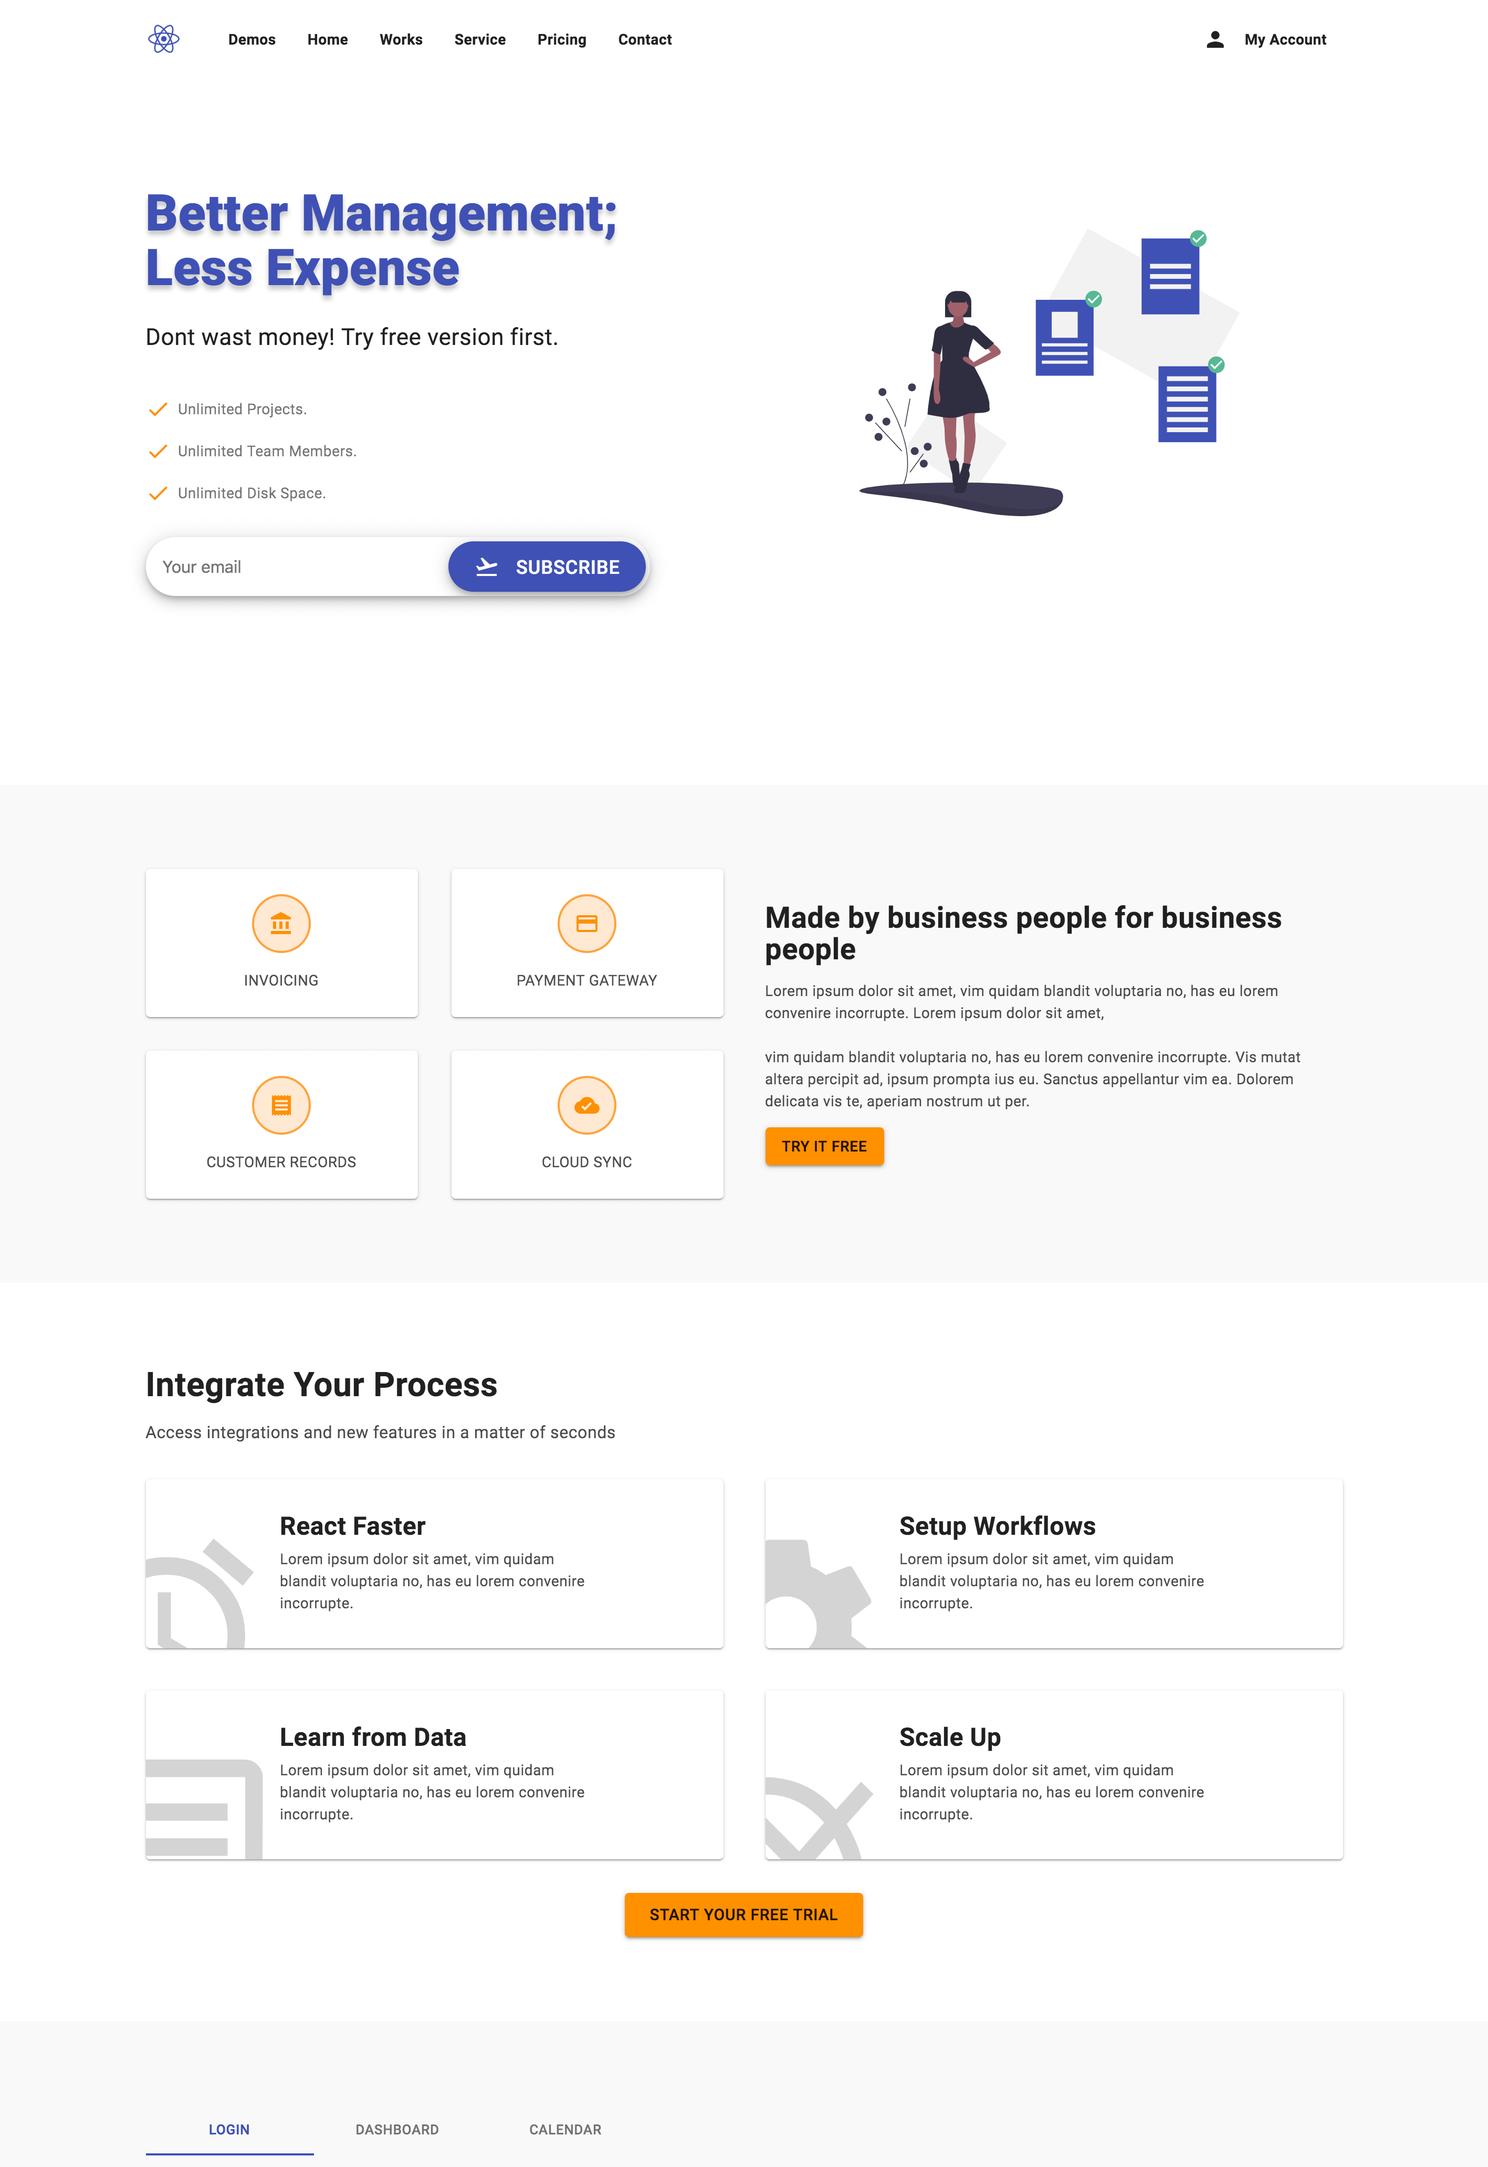
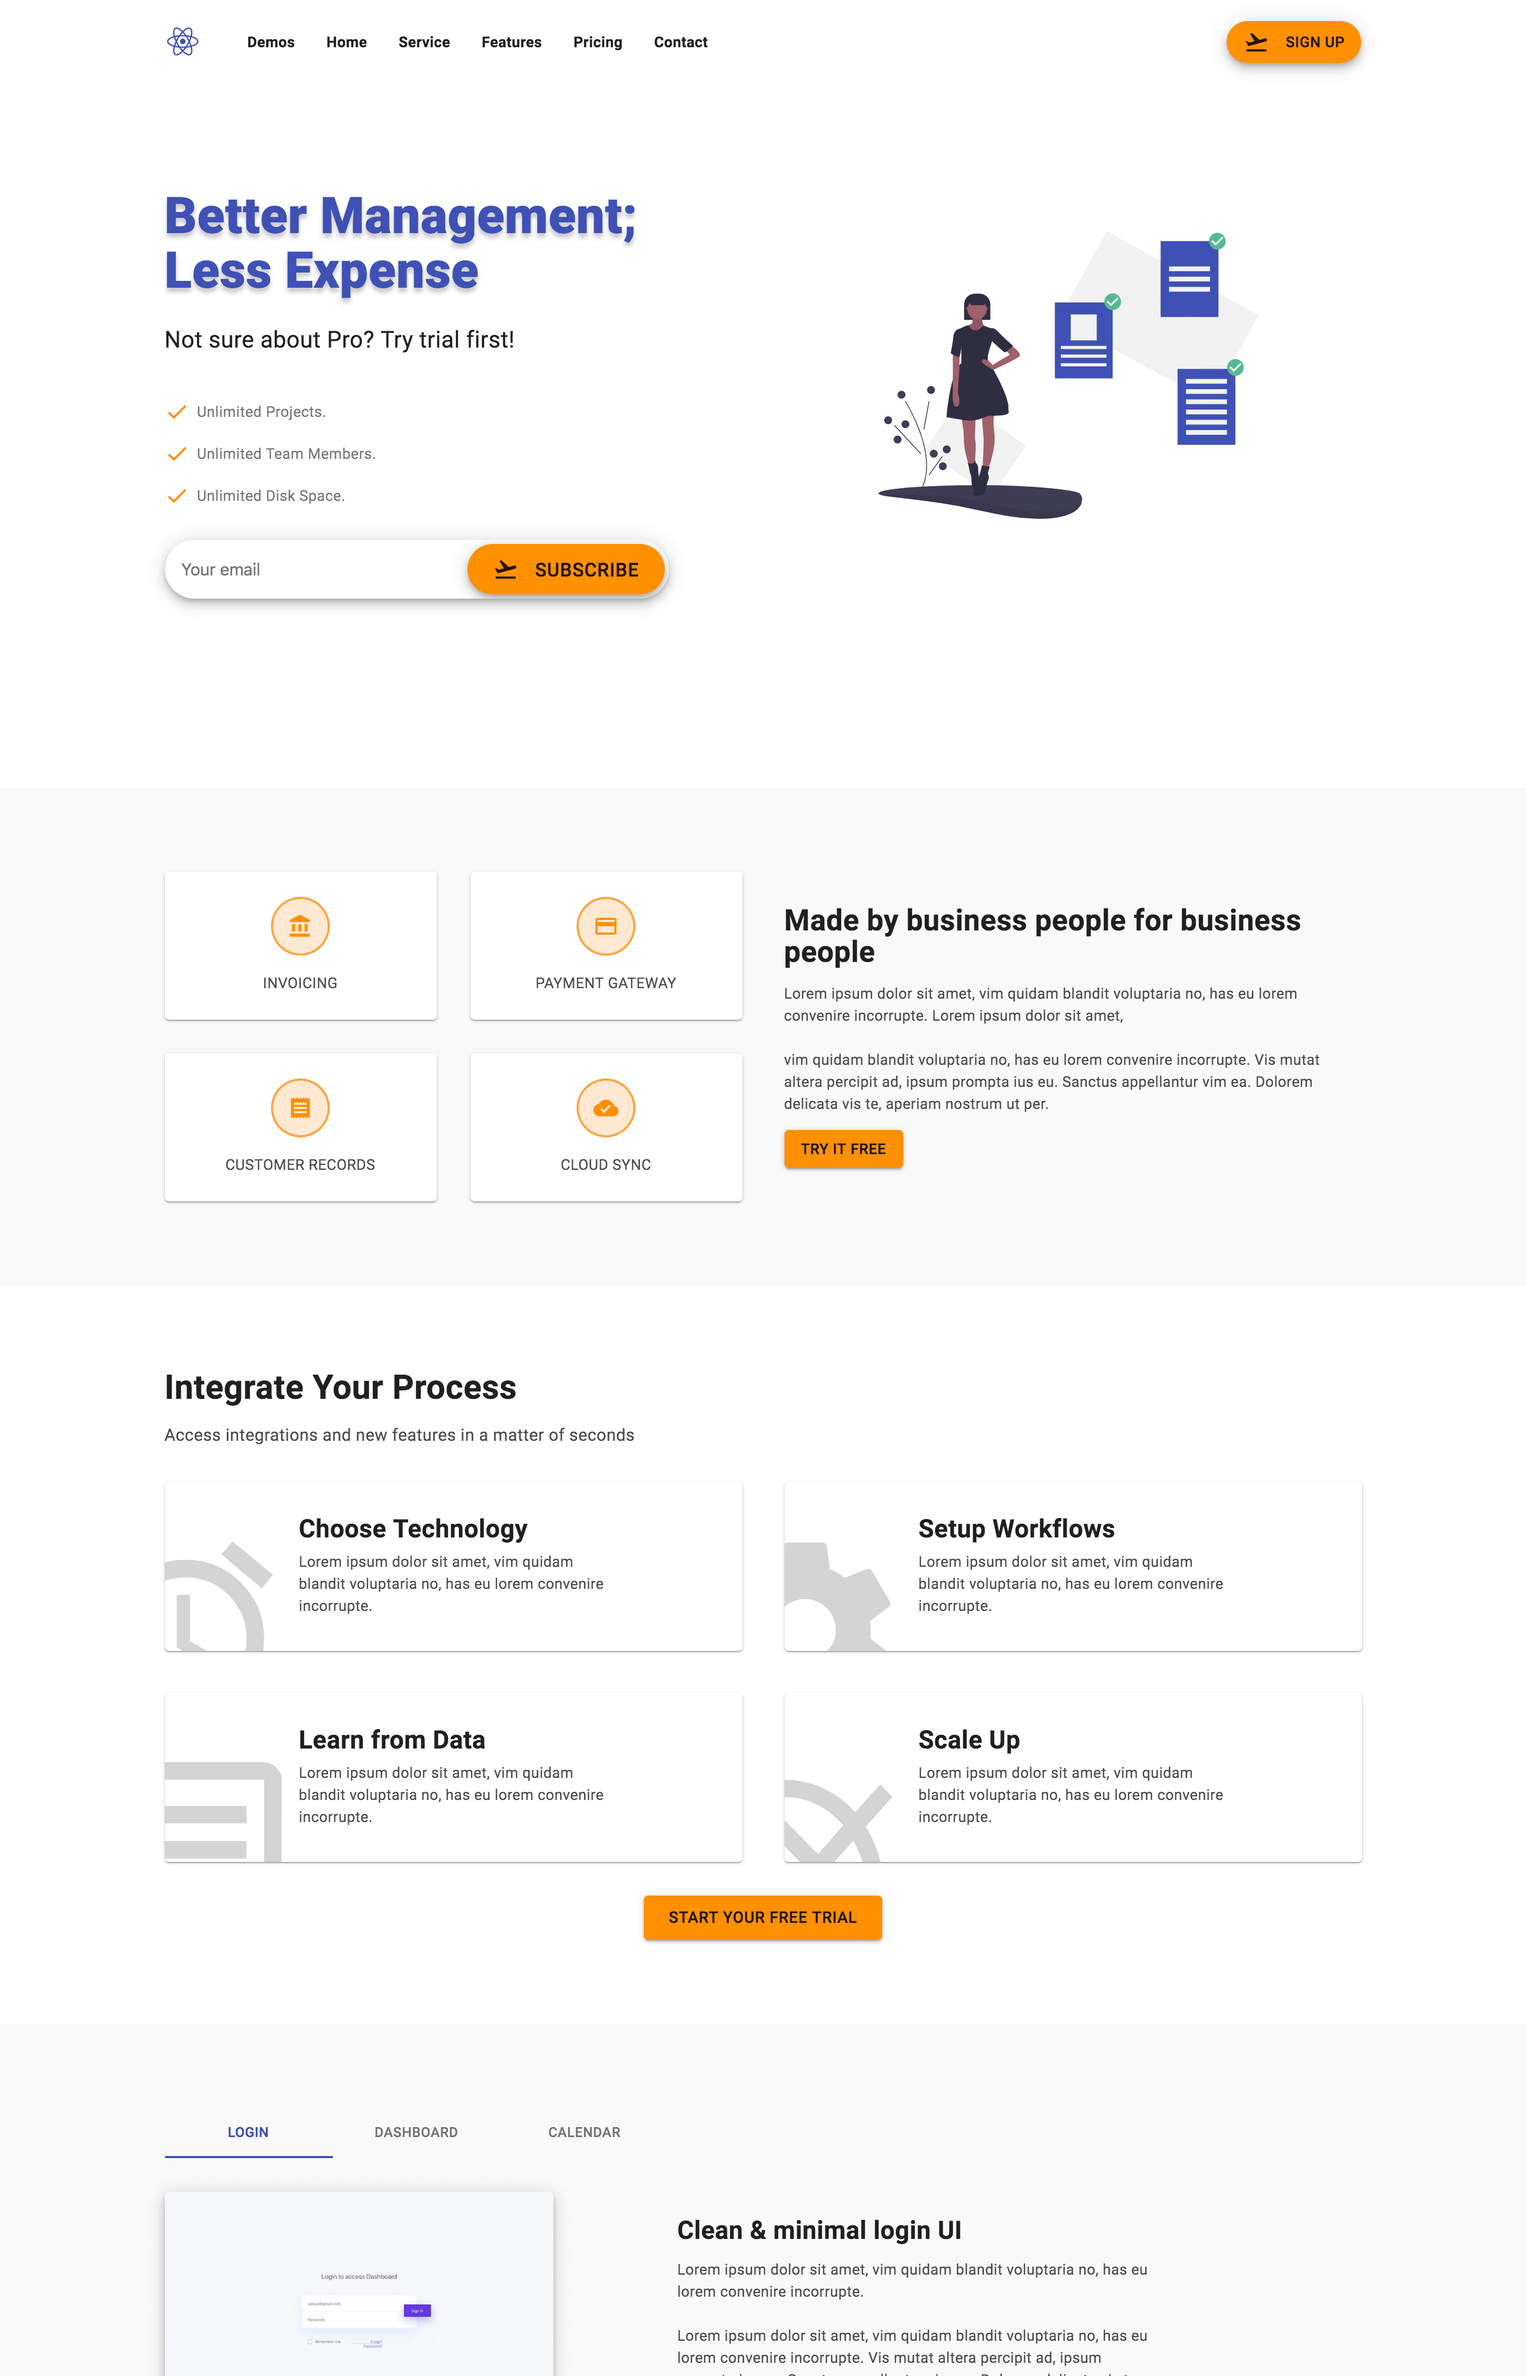
updated scrollTo id

diff --git a/landing/src/components/sections/TopBar3.jsx b/landing/src/components/sections/TopBar3.jsx
@@ -1,6 +1,7 @@
 import React, { Component } from "react";
 import { debounce, classList } from "../../Utils";
 import Icon from "@material-ui/core/Icon";
+import Fab from "@material-ui/core/Fab";
 import IconButton from "@material-ui/core/IconButton";
 import { NavLink } from "react-router-dom";
 import ScrollTo from "../common/ScrollTo";
@@ -58,18 +59,19 @@ class TopBar3 extends Component {
               <NavLink to="/">Demos</NavLink>
             </li>
             <li>
-              <ScrollTo to="intro2" onScroll={this.close}>
+              <ScrollTo to="intro3" onScroll={this.close}>
                 Home
               </ScrollTo>
             </li>
+            
             <li>
-              <ScrollTo to="portfoli2" onScroll={this.close}>
-                Works
+              <ScrollTo to="service3" onScroll={this.close}>
+                Service
               </ScrollTo>
             </li>
             <li>
-              <ScrollTo to="service2" onScroll={this.close}>
-                Service
+              <ScrollTo to="service5" onScroll={this.close}>
+                Features
               </ScrollTo>
             </li>
             <li>
@@ -84,13 +86,16 @@ class TopBar3 extends Component {
             </li>
           </ul>
           <div className="m-auto" />
-          <ul className="navigation">
-            <li>
-              <a href="/dashboard">
-                <Icon className="mr-16">person</Icon> My Account
-              </a>
-            </li>
-          </ul>
+          <Fab
+                  variant="extended"
+                  size="medium"
+                  color="secondary"
+                  aria-label="Buy"
+                  className=""
+                >
+                  <Icon className="mr-16">flight_takeoff</Icon>
+                  Sign Up
+                </Fab>
           <IconButton
             className="header__toggle"
             onClick={() => {

diff --git a/landing/src/components/sections/Intro3.jsx b/landing/src/components/sections/Intro3.jsx
@@ -7,7 +7,7 @@ class Intro3 extends Component {
   state = {};
   render() {
     return (
-      <section className="section section-intro1 section-intro3" id="intro1">
+      <section className="section section-intro1 section-intro3" id="intro3">
         <div className="container">
           <Grid container spacing={24} justify="center">
             <Grid item md={6}>
@@ -35,7 +35,7 @@ class Intro3 extends Component {
                 <Fab
                   variant="extended"
                   size="large"
-                  color="primary"
+                  color="secondary"
                   aria-label="Buy"
                   className="btn-action m-8"
                 >

diff --git a/landing/src/components/sections/services4.jsx b/landing/src/components/sections/services4.jsx
@@ -6,7 +6,7 @@ class Service4 extends Component {
   cardList = [
     {
       icon: "alarm",
-      title: "React Faster",
+      title: "Choose Technology",
       text:
         "Lorem ipsum dolor sit amet, vim quidam blandit voluptaria no, has eu lorem convenire incorrupte."
     },
@@ -31,7 +31,7 @@ class Service4 extends Component {
   ];
   render() {
     return (
-      <div className="section section-service4">
+      <div className="section section-service4" id="service4">
         <div className="container">
           <div className="section__header">
             <h2>Integrate Your Process</h2>

diff --git a/landing/src/components/sections/services7.jsx b/landing/src/components/sections/services7.jsx
@@ -27,7 +27,7 @@ class Service7 extends Component {
   state = {};
   render() {
     return (
-      <div className="section section-service7 light-gray">
+      <div className="section section-service7 light-gray" id="service7">
         <div className="container">
           <Grid container alignItems="center" spacing={40}>
             <Grid item lg={6} md={6} sm={12} xs={12}>

diff --git a/landing/src/components/sections/services6.jsx b/landing/src/components/sections/services6.jsx
@@ -23,7 +23,7 @@ class Service6 extends Component {
   state = {};
   render() {
     return (
-      <div className="section section-service6">
+      <div className="section section-service6" id="service6">
         <div className="container">
           <div className="section__header mb-48">
             <h2>Grow Your Business</h2>

diff --git a/landing/src/components/sections/testimonial3.jsx b/landing/src/components/sections/testimonial3.jsx
@@ -49,7 +49,7 @@ class Testimonial3 extends Component {
 
   render() {
     return (
-      <div className="section section-testimonial3">
+      <div className="section section-testimonial3" id="testimonial3">
         <div className="container">
           <div className="section__header">
             <h2>We Are Trusted</h2>

diff --git a/landing/src/components/sections/services3.jsx b/landing/src/components/sections/services3.jsx
@@ -24,7 +24,7 @@ class Service3 extends Component {
 
   render() {
     return (
-      <div className="section section-service3 light-gray">
+      <div className="section section-service3 light-gray" id="service3">
         <div className="container">
           
           <Grid container spacing={40} alignItems="center">

diff --git a/landing/src/components/sections/services5.jsx b/landing/src/components/sections/services5.jsx
@@ -36,7 +36,7 @@ class Service5 extends Component {
     let feature = this.featureList[value];
 
     return (
-      <div className="section section-service5 light-gray">
+      <div className="section section-service5 light-gray" id="service5">
         <div className="container">
           
           {/* tab view */}
